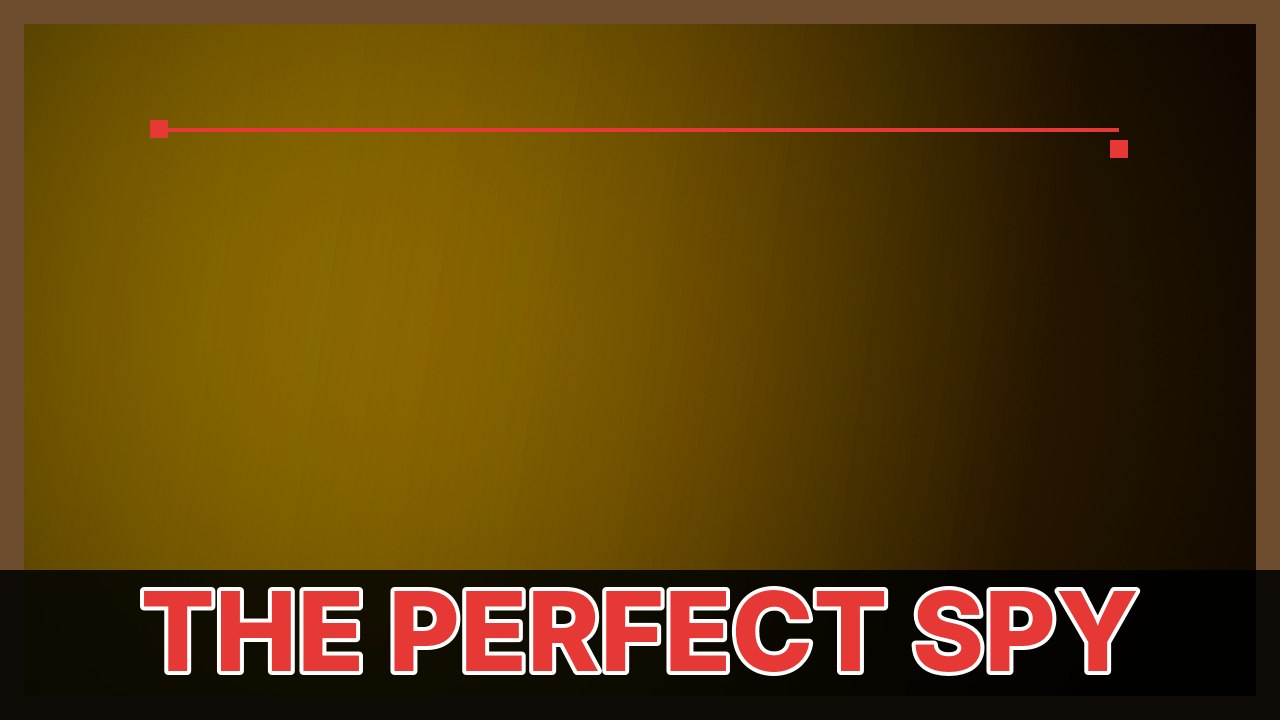
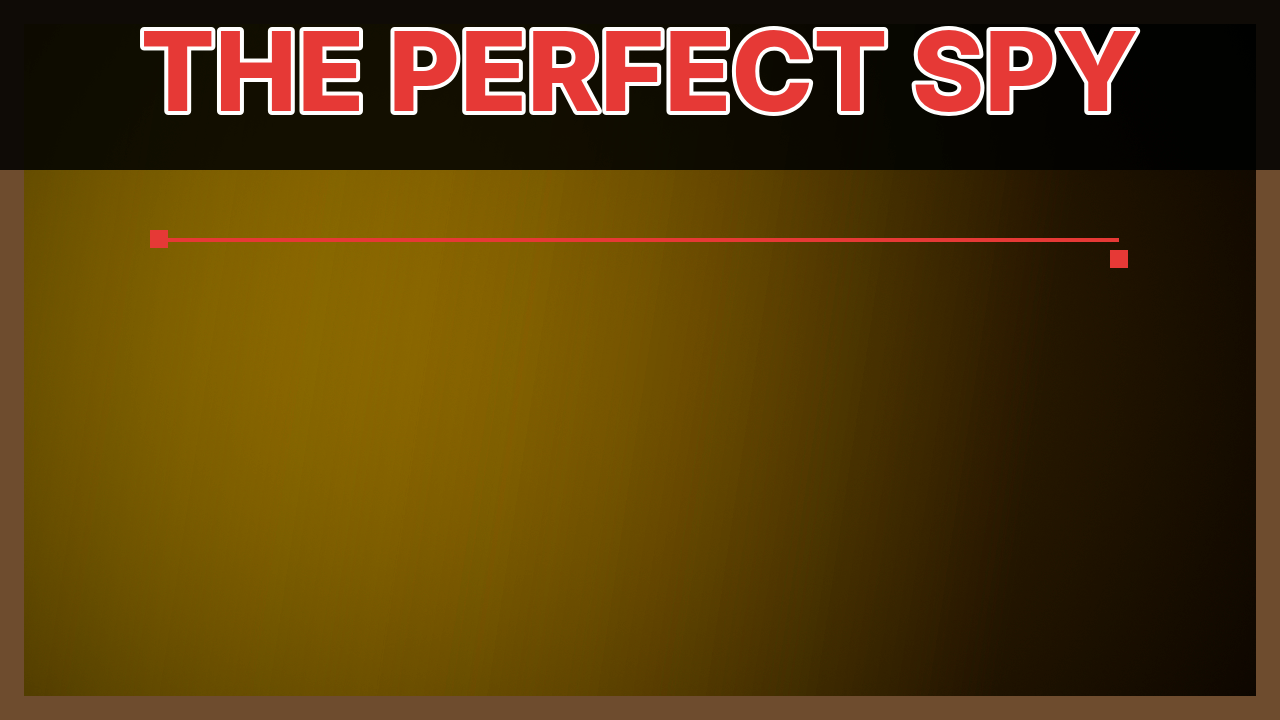
Keep thumbnail text in top third for TV viewers
Claude-Session: https://claude.ai/code/session_01FRK8FBMdgwV8S6HMiAtTgD

diff --git a/src/lib/thumbnail.ts b/src/lib/thumbnail.ts
@@ -68,7 +68,8 @@ export async function renderThumbnail(o: { bgPath: string; outPath: string; text
  * Simple story-channel templates (inspired by illustrated explainer channels):
  *  A "name"   – big subject name across the top, subject image fills the frame.
  *  B "number" – big red stat top-left (e.g. "-$6.3 BILLION") with a down-arrow, subject below.
- *  C "board"  – evidence-board look: subject image framed with red pins/string and a label strip at the bottom.
+ *  C "board"  – evidence-board look: subject image framed with red pins/string and a label strip at the top.
+ * All text sits in the top third: TV and mobile overlay the duration, progress bar and title on the bottom.
  * Text is white with a thick black outline (no dark box), 1-3 words. Optional `characterPath` (PNG with alpha)
  * is placed bottom-left as the channel's recurring "reactor" character.
  */
@@ -89,10 +90,10 @@ export async function renderTemplateThumbnail(o: { template: ThumbTemplate; bgPa
     vf = `${base},drawtext=fontfile='${FONT}':text='${text}':fontsize=${fs2}:fontcolor=${accent}:borderw=10:bordercolor=white:x=40:y=30`;
   } else {
     vf = `${base},drawbox=x=0:y=0:w=iw:h=ih:color=0x6D4C2F:t=24,` +
-      `drawbox=x=150:y=120:w=18:h=18:color=${accent}:t=fill,drawbox=x=1110:y=140:w=18:h=18:color=${accent}:t=fill,` +
-      `drawbox=x=159:y=128:w=960:h=4:color=${accent}:t=fill,` +
-      `drawbox=x=0:y=${H - 150}:w=iw:h=150:color=black@0.85:t=fill,` +
-      `drawtext=fontfile='${FONT}':text='${text}':fontsize=${Math.min(110, fs1)}:fontcolor=${accent}:borderw=4:bordercolor=white:x=(w-text_w)/2:y=${H - 130}`;
+      `drawbox=x=150:y=230:w=18:h=18:color=${accent}:t=fill,drawbox=x=1110:y=250:w=18:h=18:color=${accent}:t=fill,` +
+      `drawbox=x=159:y=238:w=960:h=4:color=${accent}:t=fill,` +
+      `drawbox=x=0:y=0:w=iw:h=170:color=black@0.85:t=fill,` +
+      `drawtext=fontfile='${FONT}':text='${text}':fontsize=${Math.min(110, fs1)}:fontcolor=${accent}:borderw=4:bordercolor=white:x=(w-text_w)/2:y=30`;
   }
   const args = ["-y", "-i", o.bgPath];
   if (o.characterPath) {

diff --git a/docs/monday-video-plan.md b/docs/monday-video-plan.md
@@ -7,11 +7,11 @@ Taken from Crayon Capital's approach: **one subject, one idea, 1–3 words, bold
 |---|---|---|
 | **A: Name** | The story is a person or place | Name huge across the top, white with black outline. Subject fills the frame. Optional character bottom-left. |
 | **B: Number** | There's a shocking figure | Red stat top-left ("-$6.3 BILLION"). Subject below. |
-| **C: Board** | Mystery, scandal, spy | Evidence-board frame, red pins and string, red label strip at the bottom. |
+| **C: Board** | Mystery, scandal, spy | Evidence-board frame, red pins and string, red label strip at the top. |
 
 Samples: `docs/thumb-A.png`, `docs/thumb-B.png`, `docs/thumb-C.png` (placeholder background).
 
-Rules: text never repeats the title. Read it at phone size before uploading. Upload all 3 to YouTube Test & Compare.
+Rules: all text and the subject's face go in the top half. TV and phone apps cover the bottom with the duration, progress bar and title. Text never repeats the title. Read it at phone size before uploading. Upload all 3 to YouTube Test & Compare.
 
 The biggest missing piece is a **recurring character**, like Crayon's little banker. Pass one PNG as `characterPath` and it goes on every thumbnail. For example, a scribe with a quill for Past Tense and a bearded prospector for Gold Journal.
 
